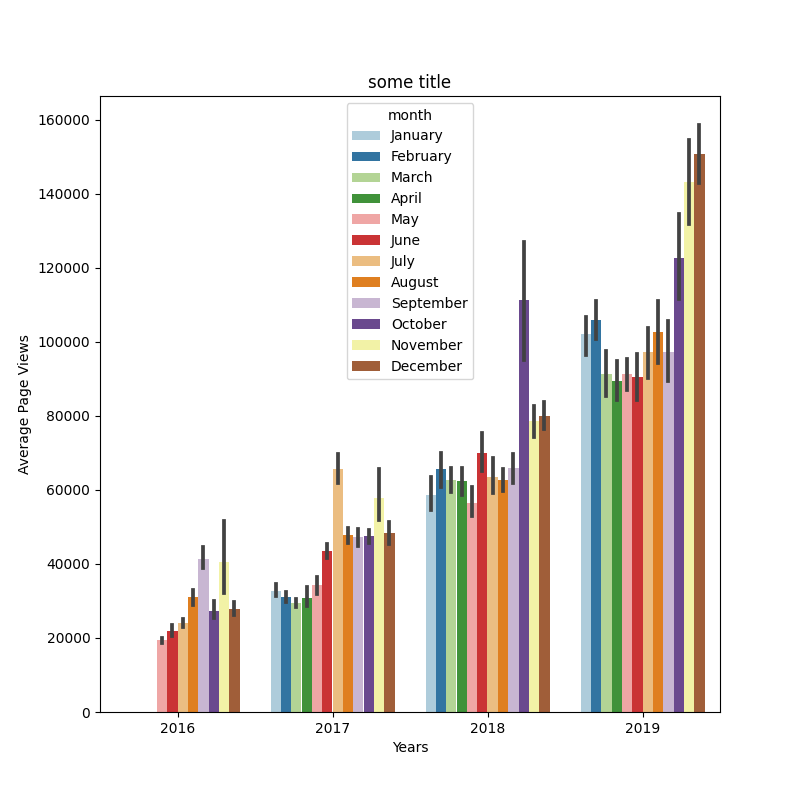
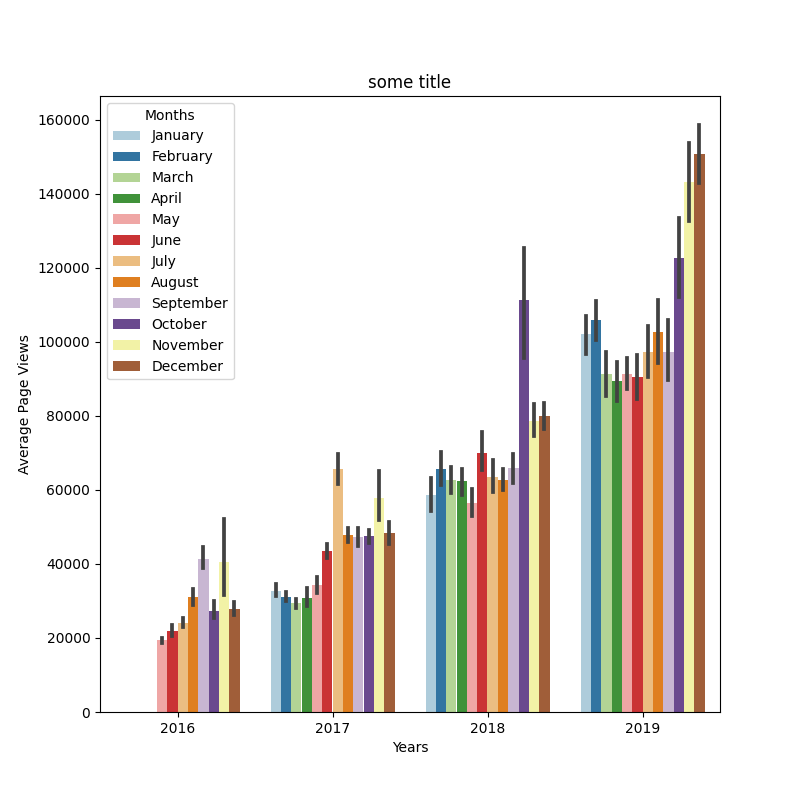
2

Changed region(s): [[0.125, 0.125, 0.2812, 0.4688], [0.4375, 0.125, 0.5938, 0.4688]]

diff --git a/time_series_visualizer.py b/time_series_visualizer.py
@@ -42,8 +42,8 @@ def draw_bar_plot():
     sns.set_palette("Paired")
     # Draw bar plot
     ax = sns.barplot(data=df_bar, x='year', y='value', hue='month', hue_order=hue_order)
-    ax.set(xlabel='Years', ylabel='Average Page Views', title='some title')
-    
+    ax.set(xlabel='Years', ylabel='Average Page Views')
+    plt.legend(title='Months', loc="upper left")
 
     # Save image and return fig (don't change this part)
     fig.savefig('bar_plot.png')
